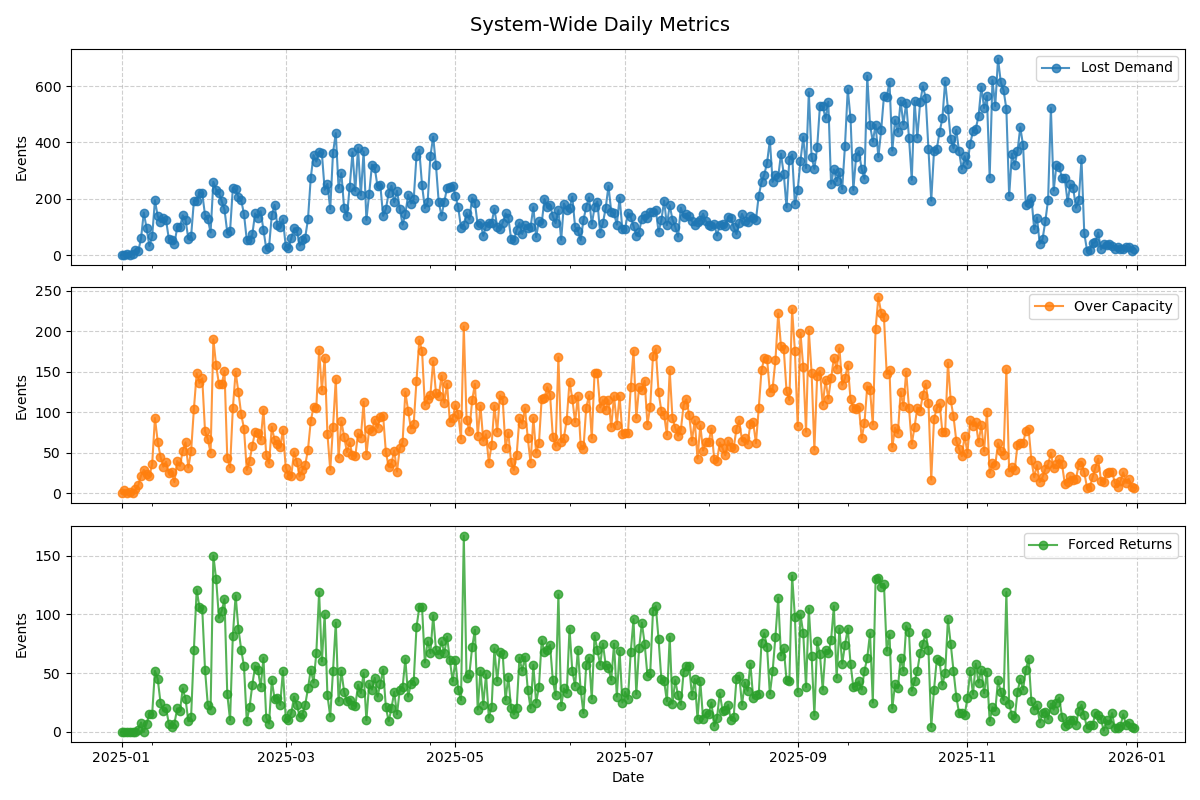
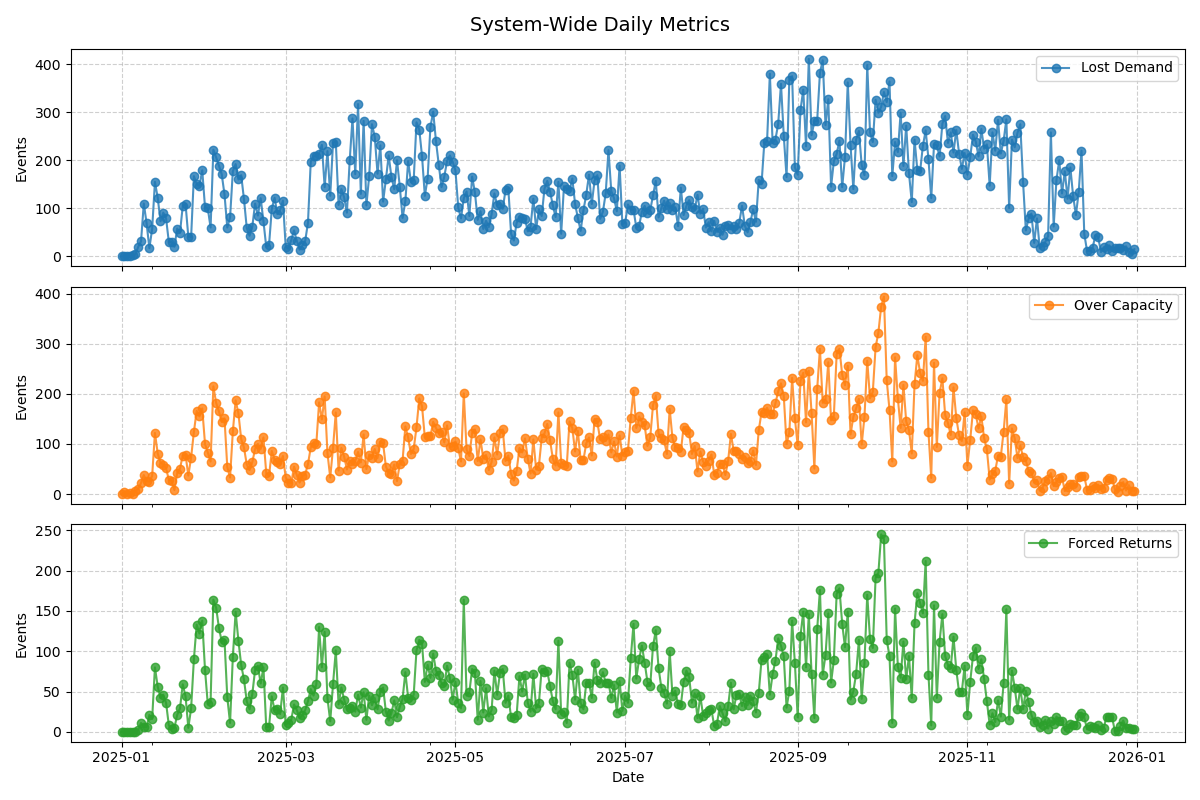
bug fix

diff --git a/src/dfbr/eval/simmulation.py b/src/dfbr/eval/simmulation.py
@@ -156,7 +156,7 @@ class Sim:
                         y_scaled = self.predict_model(X_scaled.unsqueeze(0))
                         # 3. Un-scale to get actual bike counts
                         forecast = (y_scaled * self.predict_ds.y_std) + self.predict_ds.y_mean
-                        forecast = torch.clamp(torch.round(forecast), min=0).squeeze().numpy()
+                        forecast = torch.round(forecast).squeeze().numpy()
                     
                     # 4. Move bikes based on forecast!
                     self._execute_rebalance(forecast)
